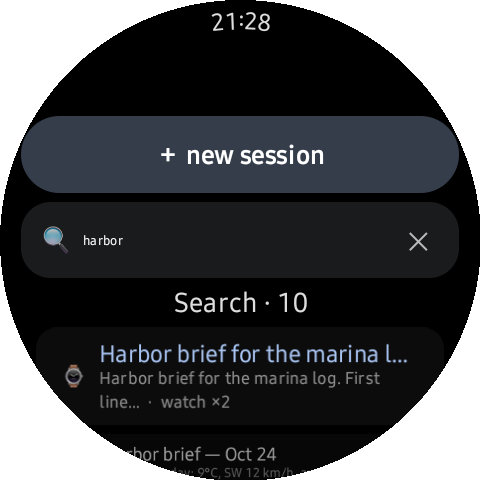
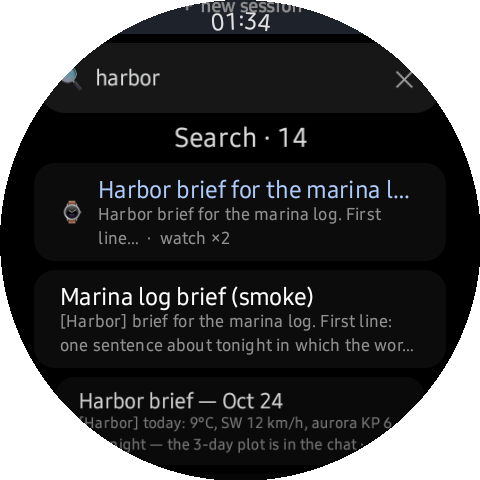
media: final 21 re-shoot on the pruned world (Search · 14, [Harbor] brackets legible)
Query lands via the -e search dev door (the editor-sheet IME swipes were
typing junk — batch-7 trap again). World hygiene ride-along: the raw-id
run_e23ae… chat archived through the feature. Claim refreshed to the new
pixels; gate PASS.

diff --git a/tools/demo/vision_gate.py b/tools/demo/vision_gate.py
@@ -37,7 +37,7 @@ CLAIMS = {
  "17-agent-picker.png": "An agent list shows pill buttons for profiles squawkbox, wear, weather and 'wear-demo' — the wear-demo pill is highlighted blue with a filled dot marking it as the live agent — above a 'close' pill.",
  "18-settings-home.png": "A screen titled Settings shows rows: '🌐 Gateways' with subtitle '1 saved · ✓ borealbytes.github', '🔊 Voice out' with subtitle 'on · 1.01×', and '🎙 Voice in'.",
  "19-settings-display.png": "A Display settings page shows a 'Markdown rendering' toggle switched on (yellow), a 'Launch splash' section with a blue 'Video' chip beside a grey 'Static' chip, and a blue 'Pick media' button.",
- "21-session-search.png": "A search screen shows 'harbor' in a text field with a ✕ button, a heading 'Search · 10', and result rows, the top one titled 'Harbor brief for the marina log.' with a watch icon beside it.",
+ "21-session-search.png": "A watch search screen shows the query 'harbor' in the field with a clear button, a heading 'Search · 14', and result rows: the top titled 'Harbor brief for the marina l…' with a watch icon and 'watch ×2' tag quoting its first line, below it 'Marina log brief (smoke)' whose preview begins '[Harbor] brief for the marina log.' with the hit bracketed.",
  "22-session-sheet.png": "A sheet opened on the session row 'Design blog post writer agent' shows buttons: '⑂ fork & open' (blue), 'archive' with a box icon, 'delete…' in red, and 'close'.",
  "23-archived-chip.png": "A Sessions screen titled 'Sessions · 25' shows filter chips at top (all, computer, wear-dem, and an archived chip) above a row titled 'Marina log brief (smoke)'.",
  "24-unarchive.png": "A sheet on the archived session row 'Marina log brief (smoke)' shows buttons: '⑂ fork & open', green 'unarchive', red 'delete…', and 'close'.",

diff --git a/docs/DEMO.md b/docs/DEMO.md
@@ -199,7 +199,7 @@ live in `docs/screens/` and all re-shoots keep the existing filename.
 | — (new, 2026-11 round) | `35-splash-film.gif` (REAL looping intro film, cut from the shipped asset — superseded `.png`), `36-splash-picker.png`, `37-voice-output.png`, `38-volume-db.png`, `39-karaoke-follow.png`, `40-stt-source.png`, `41-edge-circle-pair.png`, `42-gateways-multi.png`, `43-agent-keys.png`, `44-notify-desktop-approval.png`, `45-notify-desktop-settled.png`, `46-attention-pair.png`, `47-about-screen.png` | NEW README rows in feature order — splash-first hero, voice suite, desktop watch, attention policy, About | refreshed |
 | hero film | RE-CUT complete (`demo-vertical-v0.6.0-raw.mp4`, 20 beats, 149 s) — owner scores + uploads, then README YouTube link swap | yes | refreshed (owner upload pending) |
 | `demo-walkthrough.gif` | RE-CUT from the new film's keyframes; committed as **`demo-walkthrough-v0.6.0.gif`** (version in the name — README links the current one; old GIF purged) | — | refreshed |
-| `21-session-search.png` | re-shot | honest: query is `harbors ` with IME up; results = 2 seeded wear-demo rows | refreshed |
+| `21-session-search.png` | re-shot (batch-10, post world-prune) | claim REFRESHED: query `harbor`, `Search · 14`, watch-tagged brief + [Harbor]-bracketed rows; IME up at type time (query lands via `-e search` for the shot) | refreshed |
 | `11-gateways.png` | re-shot (from the r7d film raw — live registry); 42 shows the same registry a beat later | alt re-worded to pixels | refreshed |
 | `17-agent-picker.png` | re-shot | agent-switch speed note (batch 5); ● marks the live agent | refreshed |
 | — (new, batch 9 / v0.7.0) | `48-media-cards.png`, `49-video-player.png`, `50-gif-card.gif` (MOTION artifact, screen-recorded), `51-video-pinched.png`, `52-audio-player.png`, `53-handoff-adopted.png`, `54-tool-activity.png`, `55-tailnet-status.png`; re-shots of `08`/`11`/`42`/`47` | NEW README rows in the feature grid + handoff lead-in + tailnet img in §Networking + `wifi(wlan0)`/pixelation alt refresh | refreshed |
@@ -223,8 +223,8 @@ Tailscale console pair awaits the owner's noVNC login (`/tmp/opencode/rs/console
 png`); karaoke 39, gif 50, desktop-watch 44/45/46 and the final 21 await the sglang lane — the
 owner's comfyui h3 batch holds the gateway's turn semaphore (runs park `queued`; cancel the
 head via `POST /v1/runs/<id>/stop`). [Update: 39/50/44/45/46 all shipped — see the batch-10
-log below; only the final `21` re-shoot from that list remains, deliberately last so the
-pruned world is what it photographs.]
+log below; the final `21` re-shoot was deliberately left last so the
+pruned world is what it photographs — and it now has.]
 
 **Batch-10 wave (2026-11-07, the owner-rework round):** five asks — approvals-levels shot,
 richer + centered mermaid, approval card shows the parked command, 4-column centered table,
@@ -248,8 +248,10 @@ the deterministic card lane). Docs-VM:
 plugin/config shots re-plumbed to the DESKTOP-IN-WEB ticket lane (`webapp_open` in
 capture.sh) — the Wear Kit PANE itself is desktop-APP-only, now stated in that README. Hero:
 `demo-walkthrough-v0.8.0.gif` (splash first → 16 beats → end card; v0.7.0 purged per §9).
-World hygiene: 13 probe-junk sessions archived through the feature itself; the 24-row
-archive (the 23/24 story) untouched.
+World hygiene: 13 probe-junk sessions archived through the feature itself (the `run_e23ae…`
+raw-id chat went the same way — 14 total); the archive story rows untouched. Final `21`
+re-shot on the pruned world in the SAME wave: `Search · 14` on `harbor`, watch-tag +
+[Harbor] brackets legible — PASS.
 
 ## 4. Capture recipes (hard-won; read before touching the watch)
 
